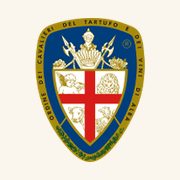
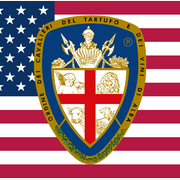
Add files via upload

diff --git a/events/2026-07-12-knights-at-sea/index.html b/events/2026-07-12-knights-at-sea/index.html
@@ -3,7 +3,7 @@
 <head>
 <meta charset="UTF-8">
 <meta name="viewport" content="width=device-width, initial-scale=1.0">
-<meta name="build-version" content="2026.11.12.2">
+<meta name="build-version" content="2026.11.24">
 <title>Knights at Sea · 12 July 2026 — Chicago Delegation</title>
 <link rel="preconnect" href="https://fonts.googleapis.com">
 <link rel="preconnect" href="https://fonts.gstatic.com" crossorigin>
@@ -463,7 +463,7 @@
 <header>
   <div class="header-inner">
     <a class="brand" href="../../index.html">
-      <img src="../../assets/brand/logo-cavalieri-tartufo.png" alt="Ordine dei Cavalieri del Tartufo e dei Vini d'Alba">
+      <img src="../../assets/brand/ordine-us-square.png" alt="Ordine dei Cavalieri del Tartufo e dei Vini d'Alba">
       <div class="brand-text">
         <span class="order" data-i18n="brand.order">Ordine dei Cavalieri</span>
         <span class="city" data-i18n="brand.city">Chicago Delegation</span>
@@ -509,7 +509,7 @@
 <article class="content">
   <p class="lede" data-i18n-html="rec.lede">The Knights of Alba-Chicago gathered for another memorable summer celebration aboard <em>Siberian Dream</em>, the magnificent 74-foot yacht owned and skippered by Chicago Knight Quintin Marx, on Sunday, July 12, 2026.</p>
 
-  <p data-i18n="rec.p1">Joining Captain Marx were Maestro Georgia Marsh, Vices Peter Litton and Norris Liu, and several fellow Knights and their spouses. The group cruised Lake Michigan under clear skies on a pristine summer day, with calm waters providing the perfect setting for friendship and fellowship.</p>
+  <p data-i18n="rec.p1">Joining Captain Marx were Maestro Georgia Marsh, Vice Maestri Peter Litton and Norris Liu, and several fellow Knights and their spouses. The group cruised Lake Michigan under clear skies on a pristine summer day, with calm waters providing the perfect setting for friendship and fellowship.</p>
 
   <p data-i18n="rec.p2">Guests were welcomed aboard with Prosecco, followed by a magnum of vintage Champagne. And, of course, no gathering of the Knights would be complete without truffles. A bounty of appetizers and a generous lunch were served as the yacht made its way along Chicago's lakefront.</p>
 
@@ -534,7 +534,7 @@
         <img src="photos/01-on-the-bridge.jpeg" alt="Knights and guests on the bridge of Siberian Dream">
       </div>
       <div class="gallery-item g-2" data-img="photos/02-aboard-siberian-dream.jpeg">
-        <img src="photos/02-aboard-siberian-dream.jpeg" alt="Vice Norris Liu and guest aboard Siberian Dream">
+        <img src="photos/02-aboard-siberian-dream.jpeg" alt="Vice Maestro Norris Liu and guest aboard Siberian Dream">
       </div>
       <div class="gallery-item g-3" data-img="photos/03-with-the-captain.jpeg">
         <img src="photos/03-with-the-captain.jpeg" alt="Knights with Captain Quintin Marx on the bridge">
@@ -562,7 +562,7 @@
   <img src="../../assets/brand/logo-cavalieri-tartufo.png" alt="Ordine dei Cavalieri del Tartufo e dei Vini d'Alba">
   <p data-i18n="footer.copy">© Ordine dei Cavalieri del Tartufo e dei Vini d'Alba · Chicago Delegation</p>
   <div class="motto" data-i18n="footer.motto">Tradition · Culture · Excellence</div>
-  <div class="version">v2026.11.12.2</div>
+  <div class="version">v2026.11.24</div>
 </footer>
 
 
@@ -597,7 +597,7 @@
 
       // Recap
       "rec.lede": "I Cavalieri di Alba-Chicago si sono riuniti per un'altra memorabile celebrazione estiva a bordo di <em>Siberian Dream</em>, il magnifico yacht di 74 piedi di proprietà e al comando del Cavaliere di Chicago Quintin Marx, domenica 12 luglio 2026.",
-      "rec.p1": "Insieme al Capitano Marx c'erano il Maestro Georgia Marsh, i Vice Peter Litton e Norris Liu, e diversi altri Cavalieri con i loro coniugi. Il gruppo ha navigato sul Lago Michigan sotto un cielo sereno, in una splendida giornata estiva, con acque calme a fare da cornice perfetta ad amicizia e sodalizio.",
+      "rec.p1": "Insieme al Capitano Marx c'erano il Maestro Georgia Marsh, i Vice Maestri Peter Litton e Norris Liu, e diversi altri Cavalieri con i loro coniugi. Il gruppo ha navigato sul Lago Michigan sotto un cielo sereno, in una splendida giornata estiva, con acque calme a fare da cornice perfetta ad amicizia e sodalizio.",
       "rec.p2": "Gli ospiti sono stati accolti a bordo con Prosecco, seguito da un magnum di Champagne millesimato. E, naturalmente, nessun raduno dei Cavalieri sarebbe completo senza i tartufi. Un'abbondanza di antipasti e un generoso pranzo sono stati serviti mentre lo yacht percorreva il lungolago di Chicago.",
       "rec.p3": "È stata un'altra gioiosa celebrazione dell'estate, delle tradizioni condivise e delle amicizie che uniscono i Cavalieri di Alba-Chicago — un gruppo davvero benedetto.",
 

diff --git a/the-knights/index.html b/the-knights/index.html
@@ -3,7 +3,7 @@
 <head>
 <meta charset="UTF-8">
 <meta name="viewport" content="width=device-width, initial-scale=1.0">
-<meta name="build-version" content="2026.11.12.2">
+<meta name="build-version" content="2026.11.24">
 <meta name="description" content="The Knights of the Chicago Delegation.">
 <title>The Knights — Chicago Delegation</title>
 <link rel="preconnect" href="https://fonts.googleapis.com">
@@ -51,7 +51,7 @@
 <header>
   <div class="header-inner">
     <a class="brand" href="../index.html">
-      <img src="../assets/brand/logo-cavalieri-tartufo.png" alt="Ordine dei Cavalieri del Tartufo e dei Vini d'Alba">
+      <img src="../assets/brand/ordine-us-square.png" alt="Ordine dei Cavalieri del Tartufo e dei Vini d'Alba">
       <div class="brand-text">
         <span class="order" data-i18n="brand.order">Ordine dei Cavalieri</span>
         <span class="city" data-i18n="brand.city">Chicago Delegation</span>
@@ -109,8 +109,8 @@
       <span class="roster-name"><span class="surname">Lenza,</span> Marina</span>
       <span class="roster-name"><span class="surname">Leong,</span> Michael</span>
       <span class="roster-name"><span class="surname">Li,</span> Maggie</span>
-      <span class="roster-name"><span class="surname">Litton,</span> Peter Taft · <em style="color:var(--ordine-gold)">Vice</em></span>
-      <span class="roster-name"><span class="surname">Liu,</span> Norris · <em style="color:var(--ordine-gold)">Vice</em></span>
+      <span class="roster-name"><span class="surname">Litton,</span> Peter Taft · <em style="color:var(--ordine-gold)">Vice Maestro</em></span>
+      <span class="roster-name"><span class="surname">Liu,</span> Norris · <em style="color:var(--ordine-gold)">Vice Maestro</em></span>
       <span class="roster-name"><span class="surname">Louisignau,</span> Ian</span>
       <span class="roster-name"><span class="surname">Maggi,</span> Carlo</span>
       <span class="roster-name"><span class="surname">Malloy,</span> Daniel Victor</span>
@@ -169,12 +169,12 @@
     </div>
     <div class="leader-vps">
       <div class="vp-card">
-        <div class="role" data-i18n="leader.vp.role">Vice &middot; Chicago Delegation</div>
+        <div class="role" data-i18n="leader.vp.role">Vice Maestro &middot; Chicago Delegation</div>
         <h3>Peter Litton</h3>
         <div class="since" data-i18n="leader.vp1.since">Knight since 2025</div>
       </div>
       <div class="vp-card">
-        <div class="role" data-i18n="leader.vp.role">Vice &middot; Chicago Delegation</div>
+        <div class="role" data-i18n="leader.vp.role">Vice Maestro &middot; Chicago Delegation</div>
         <h3>Norris Liu</h3>
         <div class="since" data-i18n="leader.vp2.since">Knight since 2023</div>
       </div>
@@ -215,7 +215,7 @@
       <span data-i18n="footer.copy">© Ordine dei Cavalieri del Tartufo e dei Vini d'Alba · Chicago Delegation</span>
       <span data-i18n="footer.motto">Tradition · Culture · Excellence</span>
     </div>
-    <div class="footer-version">v2026.11.12.2</div>
+    <div class="footer-version">v2026.11.24</div>
   </div>
 </footer>
 

diff --git a/events/2026-10-29-wine-dinner-mauro-molino/index.html b/events/2026-10-29-wine-dinner-mauro-molino/index.html
@@ -3,7 +3,7 @@
 <head>
 <meta charset="UTF-8">
 <meta name="viewport" content="width=device-width, initial-scale=1.0">
-<meta name="build-version" content="2026.11.12.2">
+<meta name="build-version" content="2026.11.24">
 <title>10th Capitolo · Barolo &amp; Truffle Dinner · 29 October 2026 — Chicago Delegation</title>
 <link rel="preconnect" href="https://fonts.googleapis.com">
 <link rel="preconnect" href="https://fonts.gstatic.com" crossorigin>
@@ -210,7 +210,7 @@
 <header>
   <div class="header-inner">
     <a class="brand" href="../../index.html">
-      <img src="../../assets/brand/logo-cavalieri-tartufo.png" alt="Ordine dei Cavalieri del Tartufo e dei Vini d'Alba">
+      <img src="../../assets/brand/ordine-us-square.png" alt="Ordine dei Cavalieri del Tartufo e dei Vini d'Alba">
       <div class="brand-text">
         <span class="order" data-i18n="brand.order">Ordine dei Cavalieri</span>
         <span class="city" data-i18n="brand.city">Chicago Delegation</span>
@@ -409,7 +409,7 @@
   <img src="../../assets/brand/logo-cavalieri-tartufo.png" alt="Ordine dei Cavalieri del Tartufo e dei Vini d'Alba">
   <p data-i18n="footer.copy">© Ordine dei Cavalieri del Tartufo e dei Vini d'Alba · Chicago Delegation</p>
   <div class="motto" data-i18n="footer.motto">Tradition · Culture · Excellence</div>
-  <div class="version">v2026.11.12.2</div>
+  <div class="version">v2026.11.24</div>
 </footer>
 
 <script>

diff --git a/events/2026-06-21-notte-del-solstizio/index.html b/events/2026-06-21-notte-del-solstizio/index.html
@@ -3,7 +3,7 @@
 <head>
 <meta charset="UTF-8">
 <meta name="viewport" content="width=device-width, initial-scale=1.0">
-<meta name="build-version" content="2026.11.12.2">
+<meta name="build-version" content="2026.11.24">
 <title>Notte del Solstizio d'Estate · 21 June 2026 — Chicago Delegation</title>
 <link rel="preconnect" href="https://fonts.googleapis.com">
 <link rel="preconnect" href="https://fonts.gstatic.com" crossorigin>
@@ -705,7 +705,7 @@
 <header>
   <div class="header-inner">
     <a class="brand" href="../../index.html">
-      <img src="../../assets/brand/logo-cavalieri-tartufo.png" alt="Ordine dei Cavalieri del Tartufo e dei Vini d'Alba">
+      <img src="../../assets/brand/ordine-us-square.png" alt="Ordine dei Cavalieri del Tartufo e dei Vini d'Alba">
       <div class="brand-text">
         <span class="order" data-i18n="brand.order">Ordine dei Cavalieri</span>
         <span class="city" data-i18n="brand.city">Chicago Delegation</span>
@@ -935,7 +935,7 @@
   <img src="../../assets/brand/logo-cavalieri-tartufo.png" alt="Ordine dei Cavalieri del Tartufo e dei Vini d'Alba">
   <p data-i18n="footer.copy">© Ordine dei Cavalieri del Tartufo e dei Vini d'Alba · Chicago Delegation</p>
   <div class="motto" data-i18n="footer.motto">Tradition · Culture · Excellence</div>
-  <div class="version">v2026.11.12.2</div>
+  <div class="version">v2026.11.24</div>
 </footer>
 
 

diff --git a/index.html b/index.html
@@ -3,7 +3,7 @@
 <head>
 <meta charset="UTF-8">
 <meta name="viewport" content="width=device-width, initial-scale=1.0">
-<meta name="build-version" content="2026.11.12.2">
+<meta name="build-version" content="2026.11.24">
 <meta name="description" content="A fellowship of fine wine and fine dining in the heart of Chicago.">
 <title>Chicago Delegation — Ordine dei Cavalieri del Tartufo e dei Vini d'Alba</title>
 <link rel="preconnect" href="https://fonts.googleapis.com">
@@ -51,7 +51,7 @@
 <header>
   <div class="header-inner">
     <a class="brand" href="index.html">
-      <img src="assets/brand/logo-cavalieri-tartufo.png" alt="Ordine dei Cavalieri del Tartufo e dei Vini d'Alba">
+      <img src="assets/brand/ordine-us-square.png" alt="Ordine dei Cavalieri del Tartufo e dei Vini d'Alba">
       <div class="brand-text">
         <span class="order" data-i18n="brand.order">Ordine dei Cavalieri</span>
         <span class="city" data-i18n="brand.city">Chicago Delegation</span>
@@ -264,7 +264,7 @@
       <span data-i18n="footer.copy">© Ordine dei Cavalieri del Tartufo e dei Vini d'Alba · Chicago Delegation</span>
       <span data-i18n="footer.motto">Tradition · Culture · Excellence</span>
     </div>
-    <div class="footer-version">v2026.11.12.2</div>
+    <div class="footer-version">v2026.11.24</div>
   </div>
 </footer>
 

diff --git a/become-a-knight/index.html b/become-a-knight/index.html
@@ -3,7 +3,7 @@
 <head>
 <meta charset="UTF-8">
 <meta name="viewport" content="width=device-width, initial-scale=1.0">
-<meta name="build-version" content="2026.11.12.2">
+<meta name="build-version" content="2026.11.24">
 <meta name="description" content="How to apply for investiture as a Knight of the Order.">
 <title>Become a Knight — Chicago Delegation</title>
 <link rel="preconnect" href="https://fonts.googleapis.com">
@@ -51,7 +51,7 @@
 <header>
   <div class="header-inner">
     <a class="brand" href="../index.html">
-      <img src="../assets/brand/logo-cavalieri-tartufo.png" alt="Ordine dei Cavalieri del Tartufo e dei Vini d'Alba">
+      <img src="../assets/brand/ordine-us-square.png" alt="Ordine dei Cavalieri del Tartufo e dei Vini d'Alba">
       <div class="brand-text">
         <span class="order" data-i18n="brand.order">Ordine dei Cavalieri</span>
         <span class="city" data-i18n="brand.city">Chicago Delegation</span>
@@ -135,7 +135,7 @@
       <span data-i18n="footer.copy">© Ordine dei Cavalieri del Tartufo e dei Vini d'Alba · Chicago Delegation</span>
       <span data-i18n="footer.motto">Tradition · Culture · Excellence</span>
     </div>
-    <div class="footer-version">v2026.11.12.2</div>
+    <div class="footer-version">v2026.11.24</div>
   </div>
 </footer>
 

diff --git a/gallery/index.html b/gallery/index.html
@@ -3,7 +3,7 @@
 <head>
 <meta charset="UTF-8">
 <meta name="viewport" content="width=device-width, initial-scale=1.0">
-<meta name="build-version" content="2026.11.12.2">
+<meta name="build-version" content="2026.11.24">
 <meta name="description" content="A visual record of recent Chicago Delegation gatherings.">
 <title>Gallery — Chicago Delegation</title>
 <link rel="preconnect" href="https://fonts.googleapis.com">
@@ -51,7 +51,7 @@
 <header>
   <div class="header-inner">
     <a class="brand" href="../index.html">
-      <img src="../assets/brand/logo-cavalieri-tartufo.png" alt="Ordine dei Cavalieri del Tartufo e dei Vini d'Alba">
+      <img src="../assets/brand/ordine-us-square.png" alt="Ordine dei Cavalieri del Tartufo e dei Vini d'Alba">
       <div class="brand-text">
         <span class="order" data-i18n="brand.order">Ordine dei Cavalieri</span>
         <span class="city" data-i18n="brand.city">Chicago Delegation</span>
@@ -163,7 +163,7 @@
       <span data-i18n="footer.copy">© Ordine dei Cavalieri del Tartufo e dei Vini d'Alba · Chicago Delegation</span>
       <span data-i18n="footer.motto">Tradition · Culture · Excellence</span>
     </div>
-    <div class="footer-version">v2026.11.12.2</div>
+    <div class="footer-version">v2026.11.24</div>
   </div>
 </footer>
 

diff --git a/events/index.html b/events/index.html
@@ -3,7 +3,7 @@
 <head>
 <meta charset="UTF-8">
 <meta name="viewport" content="width=device-width, initial-scale=1.0">
-<meta name="build-version" content="2026.11.12.2">
+<meta name="build-version" content="2026.11.24">
 <meta name="description" content="Where the Chicago Delegation gathers.">
 <title>Events — Chicago Delegation</title>
 <link rel="preconnect" href="https://fonts.googleapis.com">
@@ -51,7 +51,7 @@
 <header>
   <div class="header-inner">
     <a class="brand" href="../index.html">
-      <img src="../assets/brand/logo-cavalieri-tartufo.png" alt="Ordine dei Cavalieri del Tartufo e dei Vini d'Alba">
+      <img src="../assets/brand/ordine-us-square.png" alt="Ordine dei Cavalieri del Tartufo e dei Vini d'Alba">
       <div class="brand-text">
         <span class="order" data-i18n="brand.order">Ordine dei Cavalieri</span>
         <span class="city" data-i18n="brand.city">Chicago Delegation</span>
@@ -263,7 +263,7 @@
       <span data-i18n="footer.copy">© Ordine dei Cavalieri del Tartufo e dei Vini d'Alba · Chicago Delegation</span>
       <span data-i18n="footer.motto">Tradition · Culture · Excellence</span>
     </div>
-    <div class="footer-version">v2026.11.12.2</div>
+    <div class="footer-version">v2026.11.24</div>
   </div>
 </footer>
 

diff --git a/contact/index.html b/contact/index.html
@@ -3,7 +3,7 @@
 <head>
 <meta charset="UTF-8">
 <meta name="viewport" content="width=device-width, initial-scale=1.0">
-<meta name="build-version" content="2026.11.12.2">
+<meta name="build-version" content="2026.11.24">
 <meta name="description" content="Contact the Chicago Delegation.">
 <title>Contact — Chicago Delegation</title>
 <link rel="preconnect" href="https://fonts.googleapis.com">
@@ -51,7 +51,7 @@
 <header>
   <div class="header-inner">
     <a class="brand" href="../index.html">
-      <img src="../assets/brand/logo-cavalieri-tartufo.png" alt="Ordine dei Cavalieri del Tartufo e dei Vini d'Alba">
+      <img src="../assets/brand/ordine-us-square.png" alt="Ordine dei Cavalieri del Tartufo e dei Vini d'Alba">
       <div class="brand-text">
         <span class="order" data-i18n="brand.order">Ordine dei Cavalieri</span>
         <span class="city" data-i18n="brand.city">Chicago Delegation</span>
@@ -164,7 +164,7 @@
       <span data-i18n="footer.copy">© Ordine dei Cavalieri del Tartufo e dei Vini d'Alba · Chicago Delegation</span>
       <span data-i18n="footer.motto">Tradition · Culture · Excellence</span>
     </div>
-    <div class="footer-version">v2026.11.12.2</div>
+    <div class="footer-version">v2026.11.24</div>
   </div>
 </footer>
 

diff --git a/assets/scripts/i18n.js b/assets/scripts/i18n.js
@@ -202,7 +202,7 @@
       // Leadership
       "leader.eyebrow": "Guida",
       "leader.title": "La Guida della Delegazione di Chicago",
-      "leader.vp.role": "Vice · Delegazione di Chicago",
+      "leader.vp.role": "Vice Maestro · Delegazione di Chicago",
       "leader.vp1.since": "Cavaliere dal 2025",
       "leader.vp2.since": "Cavaliere dal 2023",
       "leader.portrait": "Ritratto del Maestro",

diff --git a/CHANGELOG.md b/CHANGELOG.md
@@ -3,6 +3,13 @@
 All notable changes to the Chicago Delegation web presence are documented here.
 Format follows [keepachangelog.com](https://keepachangelog.com); newest entries at top.
 
+## 2026.11.24
+
+### Changed
+- Brand refresh: header logo on every page is now the US-flag Ordine crest (`assets/brand/ordine-us-square.png`); footer keeps the original Ordine crest, upgraded to a high-resolution transparent version
+- `favicon.ico`, `apple-touch-icon.png`, and 192/512 PWA icons regenerated from the square US-flag logo
+- Title correction: "Vice/Vices" → "Vice Maestro/Vice Maestri" (roster, leadership cards, Knights at Sea recap, EN and IT)
+
 ## 2026.11.12.2
 
 ### Removed
